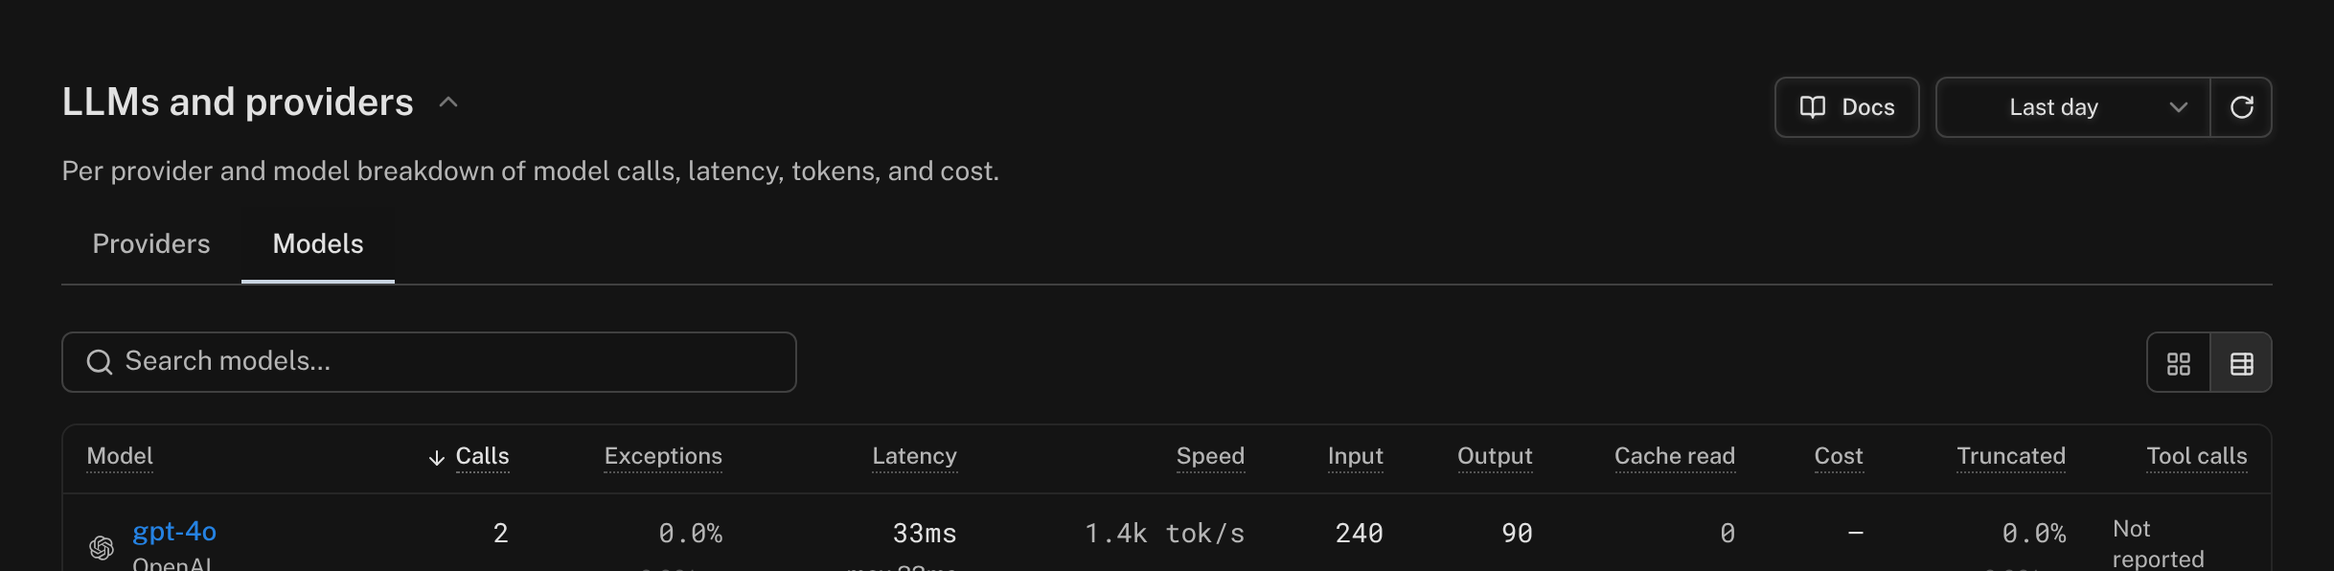
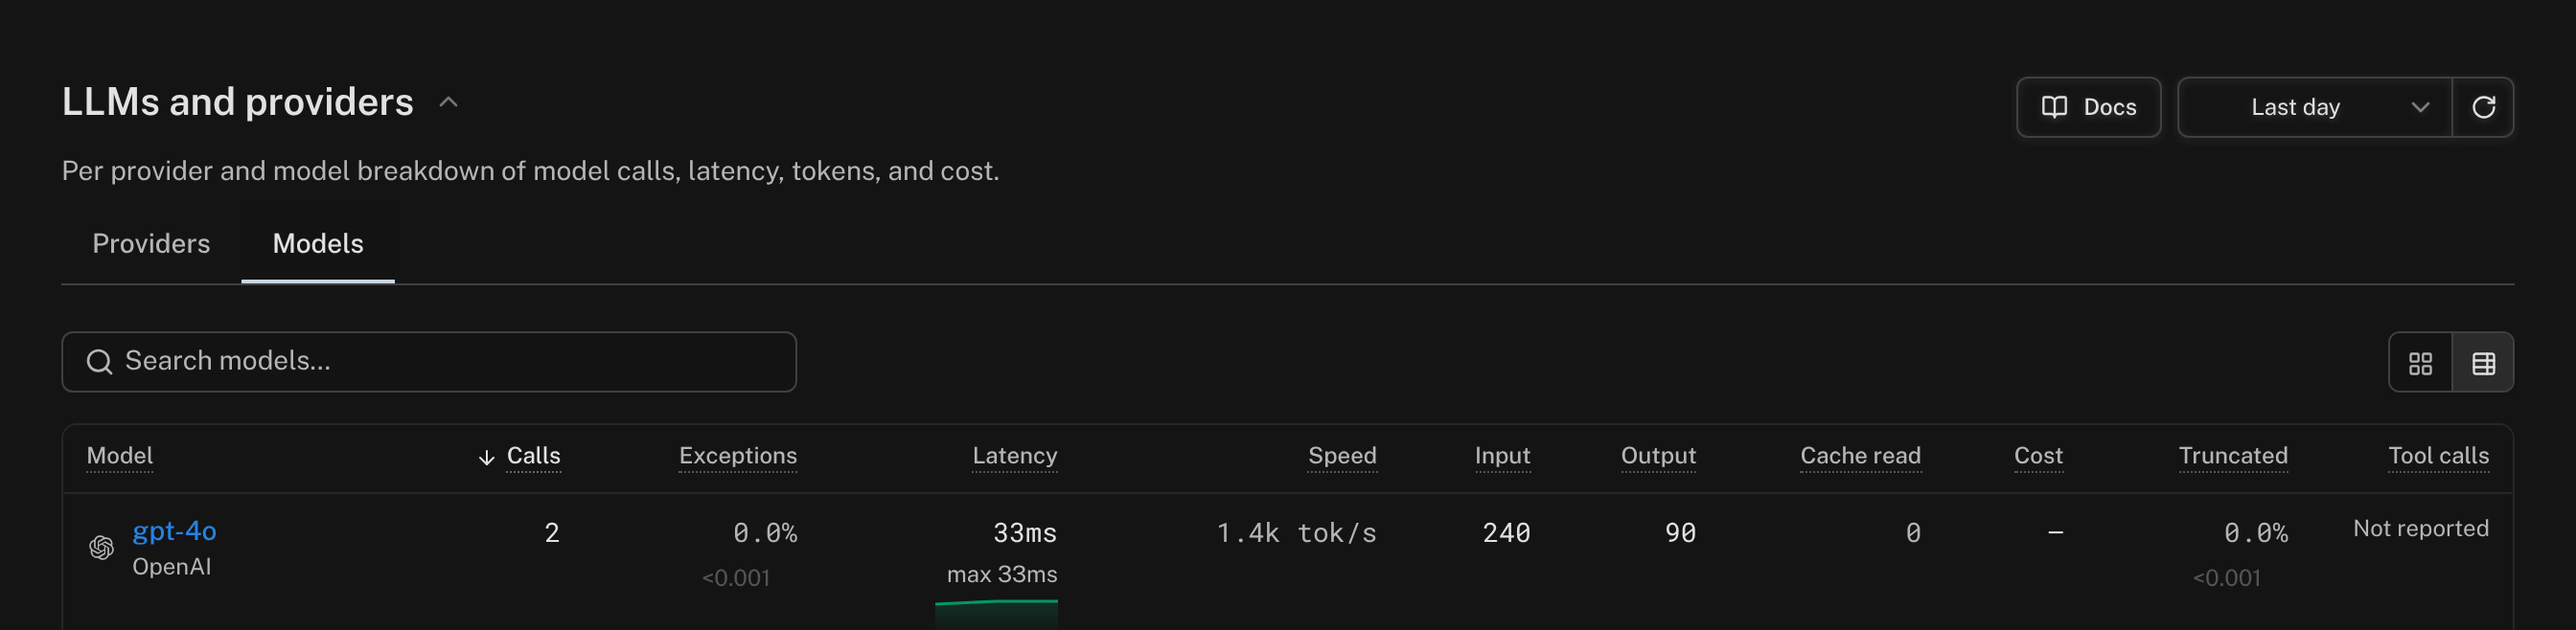
WIP: batch 2 screenshot fixes in progress
Claude-Session: https://claude.ai/code/session_014q5mx3UsYdb92FkTAfGLir

diff --git a/docs/cookbook/track-llm-cost.md b/docs/cookbook/track-llm-cost.md
@@ -65,8 +65,8 @@ Every supported instrumentation records the same token and cost data: swap in [`
 Once calls are flowing, the **LLMs and providers** view (in the project sidebar; the page itself is titled **LLMs**) gives you a per-model breakdown without writing any SQL. Each row is one `(provider, model)` pair (for example `openai` / `gpt-4o`) with its call count, errors, latency, input and output tokens, and total **Cost**. Sort by cost to see which model is spending the most.
 
 <!-- ladle-screenshot story="product--llms-and-providers--models-page--single-model" image="../images/guide/llms-view" alt="The LLMs and providers view: a per-model breakdown of calls, errors, latency, tokens, and cost" viewport="1900x600" scale="2" aspect="1218:298" padding="32" time="2026-08-13T12:00:00Z" -->
-<img class="only-light" src="../images/guide/llms-view-light.png" alt="The LLMs and providers view: a per-model breakdown of calls, errors, latency, tokens, and cost" width="1218" height="298" loading="lazy" />
-<img class="only-dark" src="../images/guide/llms-view-dark.png" alt="The LLMs and providers view: a per-model breakdown of calls, errors, latency, tokens, and cost" width="1218" height="298" loading="lazy" />
+<img class="only-light" src="../images/guide/llms-view-light.png" alt="The LLMs and providers view: a per-model breakdown of calls, errors, latency, tokens, and cost" width="1344" height="329" loading="lazy" />
+<img class="only-dark" src="../images/guide/llms-view-dark.png" alt="The LLMs and providers view: a per-model breakdown of calls, errors, latency, tokens, and cost" width="1344" height="329" loading="lazy" />
 <!-- /ladle-screenshot -->
 
 This is the fastest way to answer "where is the money going?". When you need to slice spend by day, environment, or user (or put it on a dashboard or an alert), you write the query yourself, which is the rest of this guide. See the [LLMs view guide](../guides/web-ui/llms.md) for every column and the per-model detail page.
